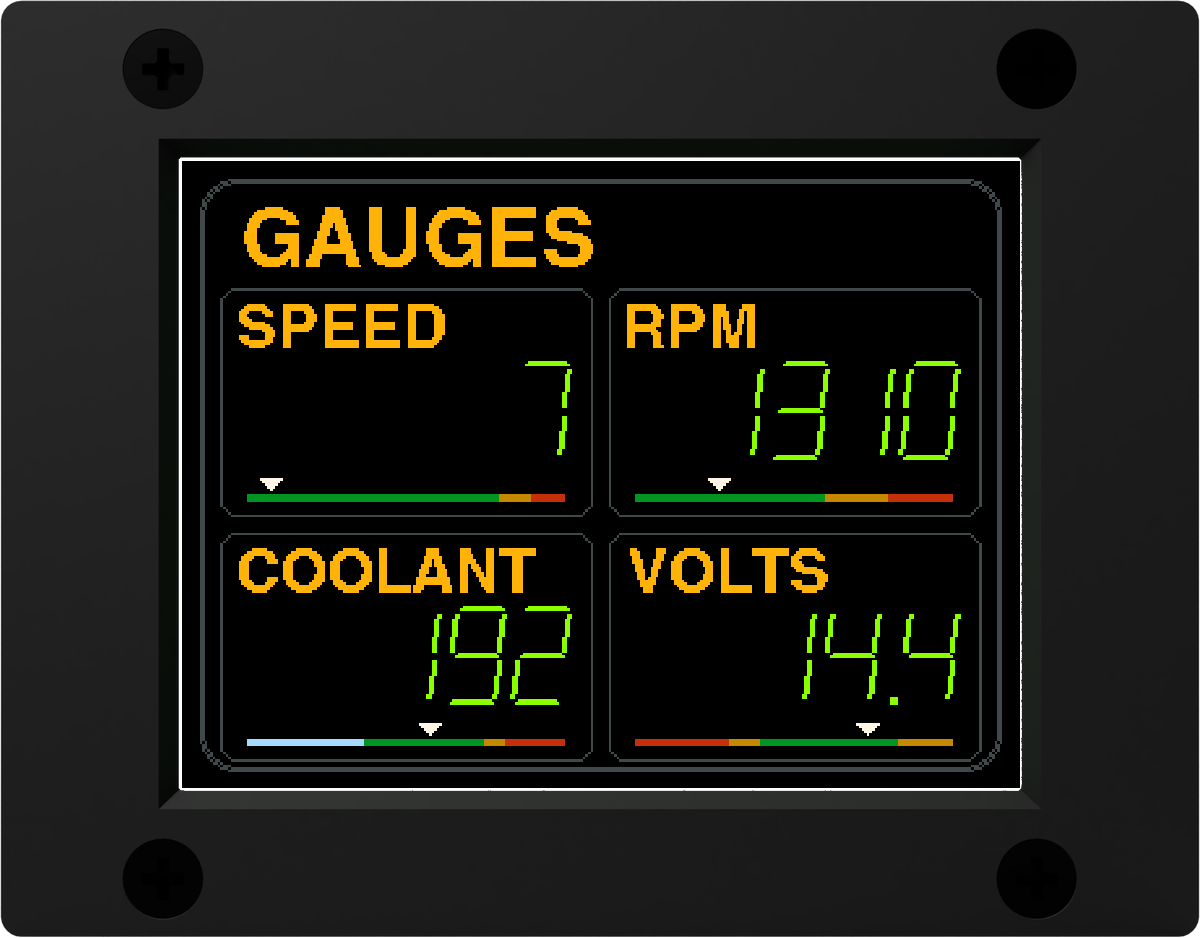
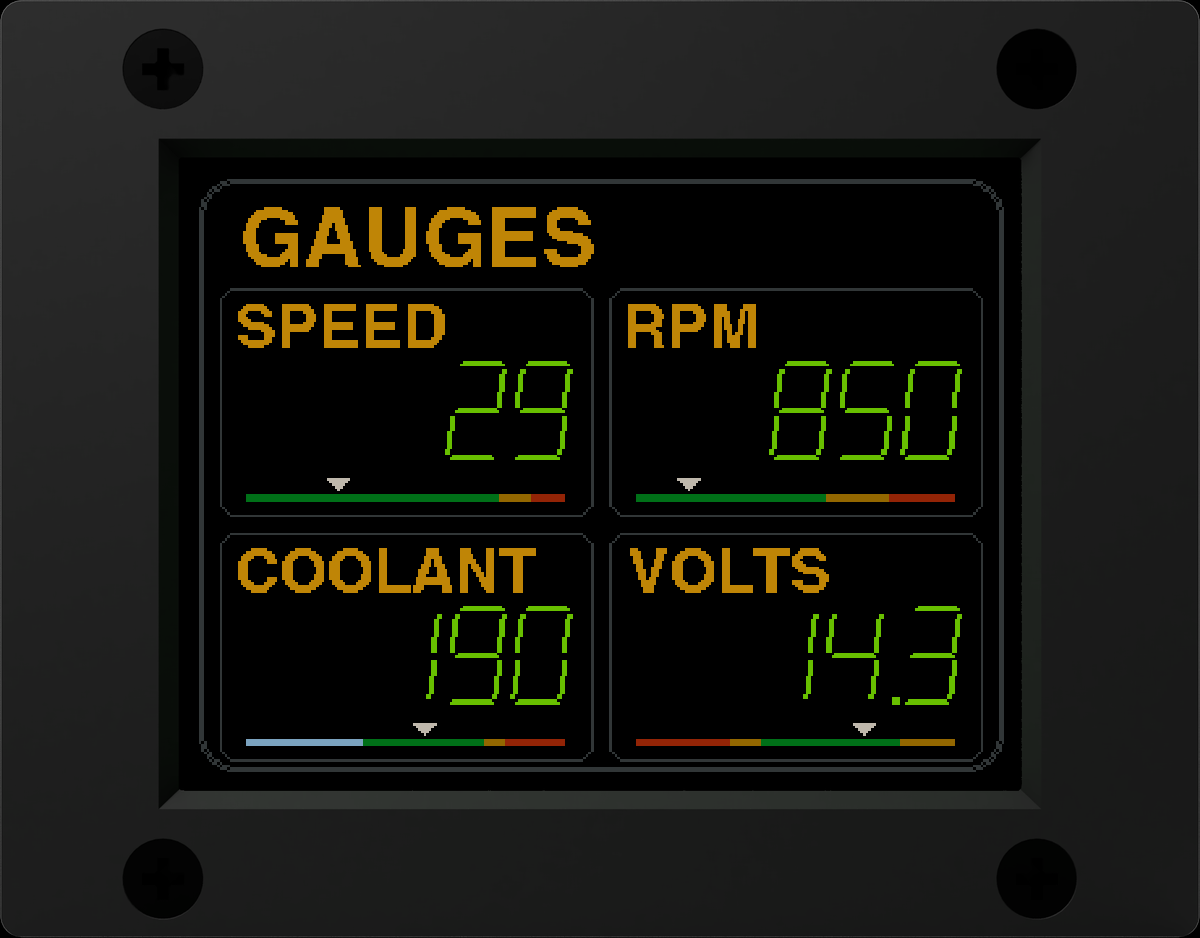
Try the real thing moves to page 2; both clocks on the GAUGES page; 3D button prominent
Claude-Session: https://claude.ai/code/session_017eW25LxrJbub8CcnNzSiUn

diff --git a/index.html b/index.html
@@ -5,7 +5,7 @@
 <meta name="viewport" content="width=device-width, initial-scale=1, maximum-scale=1, user-scalable=no">
 <title>OVERCLOCK Field Computer: the clock your Toyota should have come with</title>
 <meta name="description" content="OVERCLOCK Field Computer plugs into the factory clock spot of a nineties Toyota truck. Engine codes in plain English, GPS, every drive logged every second, weather, tilt, solar and alerts. No wiring. Try the real firmware in your browser.">
-<link rel="stylesheet" href="site.css?v=20261029u">
+<link rel="stylesheet" href="site.css?v=20261029v">
 </head>
 <body>
 <a class="skip" href="#main">Skip to content</a>
@@ -59,6 +59,16 @@
       <li><b>Plugs into the factory connector.</b> Pull the stock clock, plug this in. No cutting, no splicing, no visible change but the screen. Optional gauges and solar add a few easy wires.</li>
       <li><b>Grows with you.</b> Turn every feature on or off, show as much or as little as you like, add gauges, solar and battery monitoring when you're ready, and update it over Wi-Fi.</li>
     </ul>
+  </section>
+
+  <section class="page" id="try">
+    <div class="head in"><h2>TRY THE REAL THING</h2></div>
+    <p class="sub">The real firmware, in your browser. Every page, thirteen faults to inject, and a truck to tip. Same screen, both trucks: landscape in the 4Runner, portrait in the Tacoma.</p>
+    <div class="try">
+      <a class="try-card" href="demo.html?v=4runner"><img src="pages/case-4runner-gauges.png" width="1200" height="938" alt="The 4Runner clock on the GAUGES page" loading="lazy"><span>4Runner, landscape</span></a>
+      <a class="try-card" href="demo.html?v=tacoma"><img src="pages/case-tacoma-gauges.png" width="1200" height="1116" alt="The Tacoma clock, portrait" loading="lazy"><span>Tacoma, portrait</span></a>
+    </div>
+    <p class="sub"><a class="btn" href="demo.html">Open the demo</a> <a class="btn" href="3d.html">See it in 3D</a></p>
   </section>
 
   <section class="page" id="install">
@@ -350,15 +360,6 @@
     </form>
   </section>
 
-  <section class="page" id="try">
-    <div class="head in"><h2>TRY THE REAL THING</h2></div>
-    <p class="sub">The real firmware, in your browser. Every page, thirteen faults to inject, and a truck to tip.</p>
-    <div class="try">
-      <a class="try-card" href="demo.html?v=4runner"><img src="pages/hero-4runner.png" width="1200" height="938" alt="The 4Runner clock" loading="lazy"><span>4Runner, landscape</span></a>
-      <a class="try-card" href="demo.html?v=tacoma"><img src="pages/case-tacoma-gauges.png" width="1200" height="1116" alt="The Tacoma clock, portrait" loading="lazy"><span>Tacoma, portrait</span></a>
-    </div>
-    <p class="sub"><a class="btn" href="demo.html">Open the demo</a> <a class="btn ghost" href="3d.html">Turn it over in 3D</a></p>
-  </section>
 </main>
 
 <section class="page spec" id="fits">
@@ -421,7 +422,7 @@
 document.addEventListener('gesturestart', e => e.preventDefault(), { passive: false });
 document.addEventListener('touchmove', e => { if (e.scale !== undefined && e.scale !== 1) e.preventDefault(); }, { passive: false });
 </script>
-<script src="index.js?v=20261029u"></script>
-<script src="menu.js?v=20261029u"></script>
+<script src="index.js?v=20261029v"></script>
+<script src="menu.js?v=20261029v"></script>
 </body>
 </html>

diff --git a/3d.html b/3d.html
@@ -5,8 +5,8 @@
 <meta name="viewport" content="width=device-width, initial-scale=1, maximum-scale=1, user-scalable=no">
 <title>OVERCLOCK Field Computer in 3D: the 4Runner and Tacoma units and the board</title>
 <meta name="description" content="Turn the OVERCLOCK Field Computer over in 3D: the 4Runner and Tacoma units with the real firmware running on their screens, and the fully custom circuit board with every part labelled.">
-<link rel="stylesheet" href="site.css?v=20261029u">
-<link rel="stylesheet" href="3d.css?v=20261029u">
+<link rel="stylesheet" href="site.css?v=20261029v">
+<link rel="stylesheet" href="3d.css?v=20261029v">
 </head>
 <body class="demo three">
 <a class="skip" href="#main">Skip to content</a>
@@ -55,10 +55,10 @@
 document.addEventListener('gesturestart', e => e.preventDefault(), { passive: false });
 document.addEventListener('touchmove', e => { if (e.scale !== undefined && e.scale !== 1) e.preventDefault(); }, { passive: false });
 </script>
-<script src="overclock.js?v=20261029u"></script>
-<script src="demo_truck.js?v=20261029u"></script>
+<script src="overclock.js?v=20261029v"></script>
+<script src="demo_truck.js?v=20261029v"></script>
 <script type="module">
-import {THREE, OrbitControls, GLTFLoader, MeshoptDecoder, RoomEnvironment} from './lib/three-viewer.js?v=20261029u';   // Three.js 0.169 and its loaders, bundled
+import {THREE, OrbitControls, GLTFLoader, MeshoptDecoder, RoomEnvironment} from './lib/three-viewer.js?v=20261029v';   // Three.js 0.169 and its loaders, bundled
 
 const BASE = '3d/';                 // the models, labels and still screens
 const FW = { base: 'dist/', v: '2026-10-28g' };   // the site's own firmware files
@@ -224,6 +224,6 @@ const start=['4runner','tacoma','board'].includes(location.hash.slice(1))?locati
 addEventListener('hashchange',()=>{const h=location.hash.slice(1); if(['4runner','tacoma','board'].includes(h)&&h!==mode) show(h);});
 show(start);
 </script>
-<script src="menu.js?v=20261029u"></script>
+<script src="menu.js?v=20261029v"></script>
 </body>
 </html>

diff --git a/demo.html b/demo.html
@@ -5,8 +5,8 @@
 <meta name="viewport" content="width=device-width, initial-scale=1, maximum-scale=1, user-scalable=no">
 <title>OVERCLOCK Field Computer demo: the real firmware, every control beside it</title>
 <meta name="description" content="Drive the OVERCLOCK Field Computer's actual firmware in your browser: the knob, the pages, thirteen faults to inject, and a truck to tip while the TILT page follows.">
-<link rel="stylesheet" href="site.css?v=20261029u">
-<link rel="stylesheet" href="demo.css?v=20261029u">
+<link rel="stylesheet" href="site.css?v=20261029v">
+<link rel="stylesheet" href="demo.css?v=20261029v">
 </head>
 <body class="demo">
 <a class="skip" href="#main">Skip to content</a>
@@ -124,9 +124,9 @@
 document.addEventListener('gesturestart', e => e.preventDefault(), { passive: false });
 document.addEventListener('touchmove', e => { if (e.scale !== undefined && e.scale !== 1) e.preventDefault(); }, { passive: false });
 </script>
-<script src="overclock.js?v=20261029u"></script>
-<script src="demo_truck.js?v=20261029u"></script>
-<script src="demo.js?v=20261029u"></script>
-<script src="menu.js?v=20261029u"></script>
+<script src="overclock.js?v=20261029v"></script>
+<script src="demo_truck.js?v=20261029v"></script>
+<script src="demo.js?v=20261029v"></script>
+<script src="menu.js?v=20261029v"></script>
 </body>
 </html>

diff --git a/senders.html b/senders.html
@@ -5,7 +5,7 @@
 <meta name="viewport" content="width=device-width, initial-scale=1, maximum-scale=1, user-scalable=no">
 <title>Sender support: OVERCLOCK Field Computer</title>
 <meta name="description" content="The temperature probes, transmission temperature senders and oil or fuel pressure senders the OVERCLOCK Field Computer supports today.">
-<link rel="stylesheet" href="site.css?v=20261029u">
+<link rel="stylesheet" href="site.css?v=20261029v">
 </head>
 <body class="doc">
 <a class="skip" href="#main">Skip to content</a>
@@ -48,6 +48,6 @@
   <p><a href="index.html">Home</a> &middot; <a href="demo.html">Demo</a> &middot; <a href="3d.html">3D</a> &middot; <a href="privacy.html">Privacy</a> &middot; <a href="terms.html">Terms</a> &middot; <a href="licenses.html">Licenses</a> &middot; <a href="regulatory.html">Regulatory</a> &middot; <a href="faq.html">Questions</a> &middot; <a href="power.html">Power</a></p>
   <p>Contains FCC ID: 2AC7Z-ESP32WROOM32E</p>
 </footer>
-<script src="menu.js?v=20261029u"></script>
+<script src="menu.js?v=20261029v"></script>
 </body>
 </html>

diff --git a/faq.html b/faq.html
@@ -5,7 +5,7 @@
 <meta name="viewport" content="width=device-width, initial-scale=1, maximum-scale=1, user-scalable=no">
 <title>Questions: OVERCLOCK Field Computer</title>
 <meta name="description" content="Answers to the most common questions about the OVERCLOCK Field Computer: fitment, the Bluetooth adapter, probes, battery draw and more.">
-<link rel="stylesheet" href="site.css?v=20261029u">
+<link rel="stylesheet" href="site.css?v=20261029v">
 </head>
 <body class="doc">
 <a class="skip" href="#main">Skip to content</a>
@@ -92,6 +92,6 @@
   <p><a href="index.html">Home</a> &middot; <a href="demo.html">Demo</a> &middot; <a href="3d.html">3D</a> &middot; <a href="privacy.html">Privacy</a> &middot; <a href="terms.html">Terms</a> &middot; <a href="licenses.html">Licenses</a> &middot; <a href="regulatory.html">Regulatory</a> &middot; <a href="faq.html">Questions</a> &middot; <a href="power.html">Power</a></p>
   <p>Contains FCC ID: 2AC7Z-ESP32WROOM32E</p>
 </footer>
-<script src="menu.js?v=20261029u"></script>
+<script src="menu.js?v=20261029v"></script>
 </body>
 </html>

diff --git a/power.html b/power.html
@@ -5,7 +5,7 @@
 <meta name="viewport" content="width=device-width, initial-scale=1, maximum-scale=1, user-scalable=no">
 <title>Power and your battery: OVERCLOCK Field Computer</title>
 <meta name="description" content="How much power the OVERCLOCK Field Computer draws driving, at key-off and parked, and how it protects your battery.">
-<link rel="stylesheet" href="site.css?v=20261029u">
+<link rel="stylesheet" href="site.css?v=20261029v">
 </head>
 <body class="doc">
 <a class="skip" href="#main">Skip to content</a>
@@ -50,6 +50,6 @@
   <p><a href="index.html">Home</a> &middot; <a href="demo.html">Demo</a> &middot; <a href="3d.html">3D</a> &middot; <a href="privacy.html">Privacy</a> &middot; <a href="terms.html">Terms</a> &middot; <a href="licenses.html">Licenses</a> &middot; <a href="regulatory.html">Regulatory</a> &middot; <a href="faq.html">Questions</a> &middot; <a href="power.html">Power</a></p>
   <p>Contains FCC ID: 2AC7Z-ESP32WROOM32E</p>
 </footer>
-<script src="menu.js?v=20261029u"></script>
+<script src="menu.js?v=20261029v"></script>
 </body>
 </html>

diff --git a/regulatory.html b/regulatory.html
@@ -5,7 +5,7 @@
 <meta name="viewport" content="width=device-width, initial-scale=1, maximum-scale=1, user-scalable=no">
 <title>Regulatory Information: OVERCLOCK Field Computer</title>
 <meta name="description" content="Regulatory information for the OVERCLOCK Field Computer, including the FCC ID of the radio module inside it.">
-<link rel="stylesheet" href="site.css?v=20261029u">
+<link rel="stylesheet" href="site.css?v=20261029v">
 </head>
 <body class="doc">
 <a class="skip" href="#main">Skip to content</a>
@@ -27,6 +27,6 @@
   <p><a href="index.html">Home</a> &middot; <a href="demo.html">Demo</a> &middot; <a href="3d.html">3D</a> &middot; <a href="privacy.html">Privacy</a> &middot; <a href="terms.html">Terms</a> &middot; <a href="licenses.html">Licenses</a> &middot; <a href="regulatory.html">Regulatory</a> &middot; <a href="faq.html">Questions</a> &middot; <a href="power.html">Power</a></p>
   <p>Contains FCC ID: 2AC7Z-ESP32WROOM32E</p>
 </footer>
-<script src="menu.js?v=20261029u"></script>
+<script src="menu.js?v=20261029v"></script>
 </body>
 </html>

diff --git a/terms.html b/terms.html
@@ -5,7 +5,7 @@
 <meta name="viewport" content="width=device-width, initial-scale=1, maximum-scale=1, user-scalable=no">
 <title>Terms of use: OVERCLOCK Field Computer</title>
 <meta name="description" content="Plain terms for using overclockdash.com and the OVERCLOCK Field Computer, with trademark and copyright notes.">
-<link rel="stylesheet" href="site.css?v=20261029u">
+<link rel="stylesheet" href="site.css?v=20261029v">
 </head>
 <body class="doc">
 <a class="skip" href="#main">Skip to content</a>
@@ -40,6 +40,6 @@
   <p><a href="index.html">Home</a> &middot; <a href="demo.html">Demo</a> &middot; <a href="3d.html">3D</a> &middot; <a href="privacy.html">Privacy</a> &middot; <a href="terms.html">Terms</a> &middot; <a href="licenses.html">Licenses</a> &middot; <a href="regulatory.html">Regulatory</a> &middot; <a href="faq.html">Questions</a> &middot; <a href="power.html">Power</a></p>
   <p>Contains FCC ID: 2AC7Z-ESP32WROOM32E</p>
 </footer>
-<script src="menu.js?v=20261029u"></script>
+<script src="menu.js?v=20261029v"></script>
 </body>
 </html>

diff --git a/licenses.html b/licenses.html
@@ -5,7 +5,7 @@
 <meta name="viewport" content="width=device-width, initial-scale=1, maximum-scale=1, user-scalable=no">
 <title>Licenses and credits: OVERCLOCK Field Computer</title>
 <meta name="description" content="Open-source software used on overclockdash.com and inside the browser demo.">
-<link rel="stylesheet" href="site.css?v=20261029u">
+<link rel="stylesheet" href="site.css?v=20261029v">
 </head>
 <body class="doc">
 <a class="skip" href="#main">Skip to content</a>
@@ -53,6 +53,6 @@
   <p><a href="index.html">Home</a> &middot; <a href="demo.html">Demo</a> &middot; <a href="3d.html">3D</a> &middot; <a href="privacy.html">Privacy</a> &middot; <a href="terms.html">Terms</a> &middot; <a href="licenses.html">Licenses</a> &middot; <a href="regulatory.html">Regulatory</a> &middot; <a href="faq.html">Questions</a> &middot; <a href="power.html">Power</a></p>
   <p>Contains FCC ID: 2AC7Z-ESP32WROOM32E</p>
 </footer>
-<script src="menu.js?v=20261029u"></script>
+<script src="menu.js?v=20261029v"></script>
 </body>
 </html>

diff --git a/privacy.html b/privacy.html
@@ -5,7 +5,7 @@
 <meta name="viewport" content="width=device-width, initial-scale=1, maximum-scale=1, user-scalable=no">
 <title>Privacy: OVERCLOCK Field Computer</title>
 <meta name="description" content="What overclockdash.com collects (almost nothing) and what happens to a note you send us.">
-<link rel="stylesheet" href="site.css?v=20261029u">
+<link rel="stylesheet" href="site.css?v=20261029v">
 </head>
 <body class="doc">
 <a class="skip" href="#main">Skip to content</a>
@@ -36,6 +36,6 @@
   <p><a href="index.html">Home</a> &middot; <a href="demo.html">Demo</a> &middot; <a href="3d.html">3D</a> &middot; <a href="privacy.html">Privacy</a> &middot; <a href="terms.html">Terms</a> &middot; <a href="licenses.html">Licenses</a> &middot; <a href="regulatory.html">Regulatory</a> &middot; <a href="faq.html">Questions</a> &middot; <a href="power.html">Power</a></p>
   <p>Contains FCC ID: 2AC7Z-ESP32WROOM32E</p>
 </footer>
-<script src="menu.js?v=20261029u"></script>
+<script src="menu.js?v=20261029v"></script>
 </body>
 </html>
